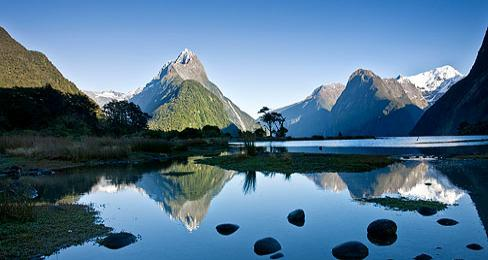
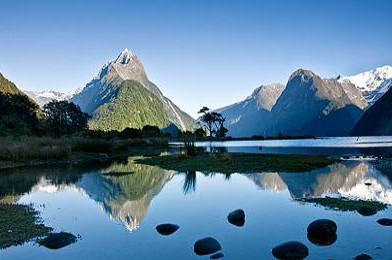
Resize images

diff --git a/frontend/app/partials/accommodation.html b/frontend/app/partials/accommodation.html
@@ -33,7 +33,7 @@
       
       <h3>Images of Riga and Latvia</h3>
       <div class="images clearfix">
-        <img srcset="img/riga-1-large.jpg 1920w, img/riga-1-medium.jpg 960w, img/riga-1-small.jpg 480w" src="img/riga-1-medium.jpg" width="400" height="300"></img>
+        <img srcset="img/riga-1-large.jpg 1920w, img/riga-1-medium.jpg 960w, img/riga-1-small.jpg 480w" src="img/riga-1-medium.jpg"></img>
         <img src="img/latvia-1.jpg"></img>
       </div>
       <h3>Google maps</h3>

diff --git a/frontend/app/css/app.css b/frontend/app/css/app.css
@@ -507,7 +507,8 @@ button.green:hover {
   transform: rotate(180deg);
 }
 .gift img {
-  width: 100%;
+  /* width: 100%; */
+  width: 500px;
 }
 .ngdialog.ngdialog-theme-default {
   margin: 0;
